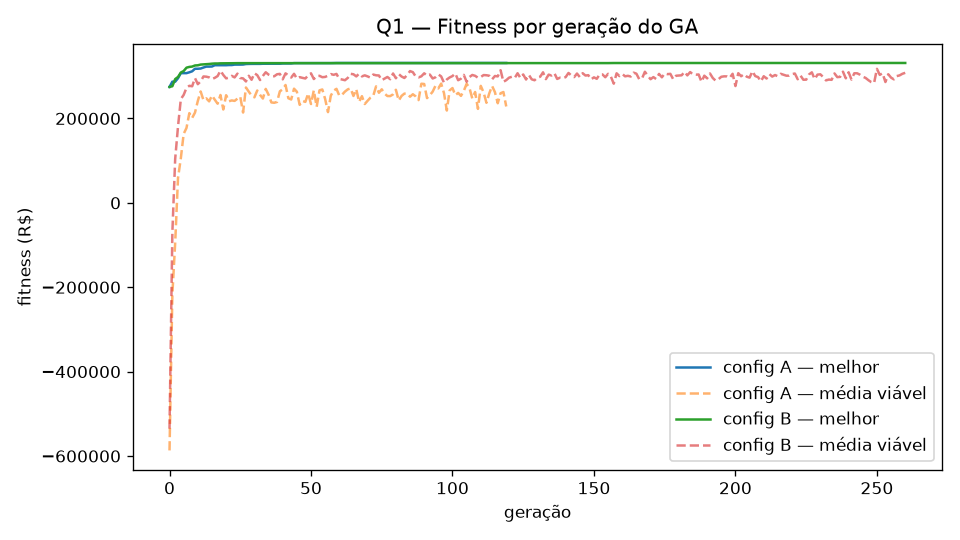
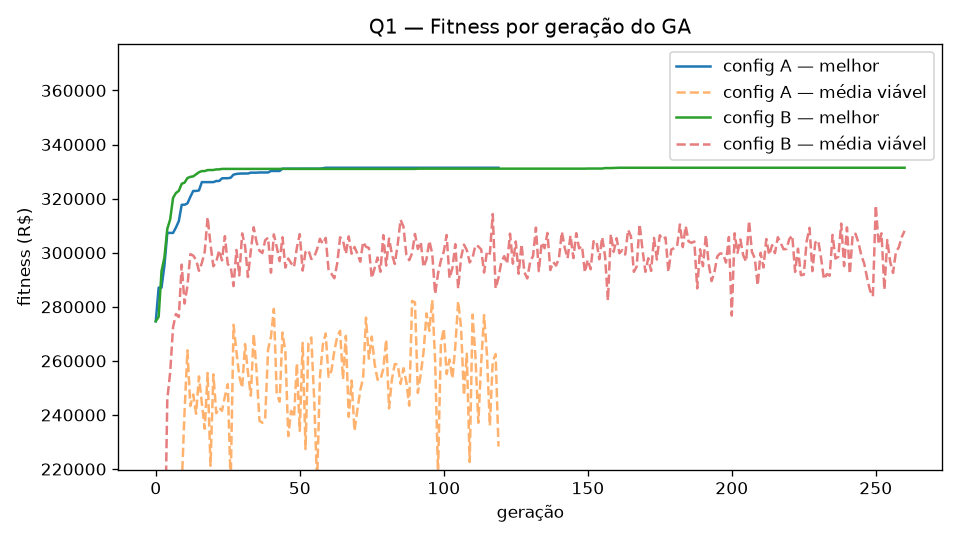
Graficos: escala do fitness do GA e nivel de preco na trajetoria da DP

diff --git a/questao_02/main.py b/questao_02/main.py
@@ -204,12 +204,13 @@ def graficos(v, v_fix, traj, catalogo, config, saida):
     fig, axes = plt.subplots(2, 1, figsize=(8, 6), sharex=True)
     for sku in reps:
         d = traj[traj["sku"] == sku]
-        axes[0].step(d["semana"], d["preco"], where="post", label=sku)
+        nivel = pd.to_numeric(d["nivel"].replace("susp", 0), errors="coerce")
+        axes[0].step(d["semana"], nivel, where="post", marker="o", label=sku)
         axes[1].plot(d["semana"], d["estoque_inicio_semana"], marker="o", label=sku)
     for k in config["dividas"]:
         for ax in axes:
             ax.axvline(int(k.split("_")[1]), color="gray", ls=":", lw=0.8)
-    axes[0].set_ylabel("preço (R$)")
+    axes[0].set_ylabel("nível de preço (× preço atual)")
     axes[1].set_ylabel("estoque esperado")
     axes[1].set_xlabel("semana")
     axes[0].set_title("Q2 — Trajetória de preço e estoque (DP) — produtos representativos")

diff --git a/questao_01/main.py b/questao_01/main.py
@@ -125,6 +125,8 @@ def executar(a) -> dict:
     for nome, r in resultados.items():
         ax.plot(r.historico_melhor, label=f"config {nome} — melhor")
         ax.plot(r.historico_media, "--", alpha=0.6, label=f"config {nome} — média viável")
+    piso = min(min(r.historico_melhor) for r in resultados.values())
+    ax.set_ylim(bottom=0.8 * piso)          # médias penalizadas das 1ªs gerações ficam fora da escala
     ax.set_xlabel("geração")
     ax.set_ylabel("fitness (R$)")
     ax.set_title("Q1 — Fitness por geração do GA")
